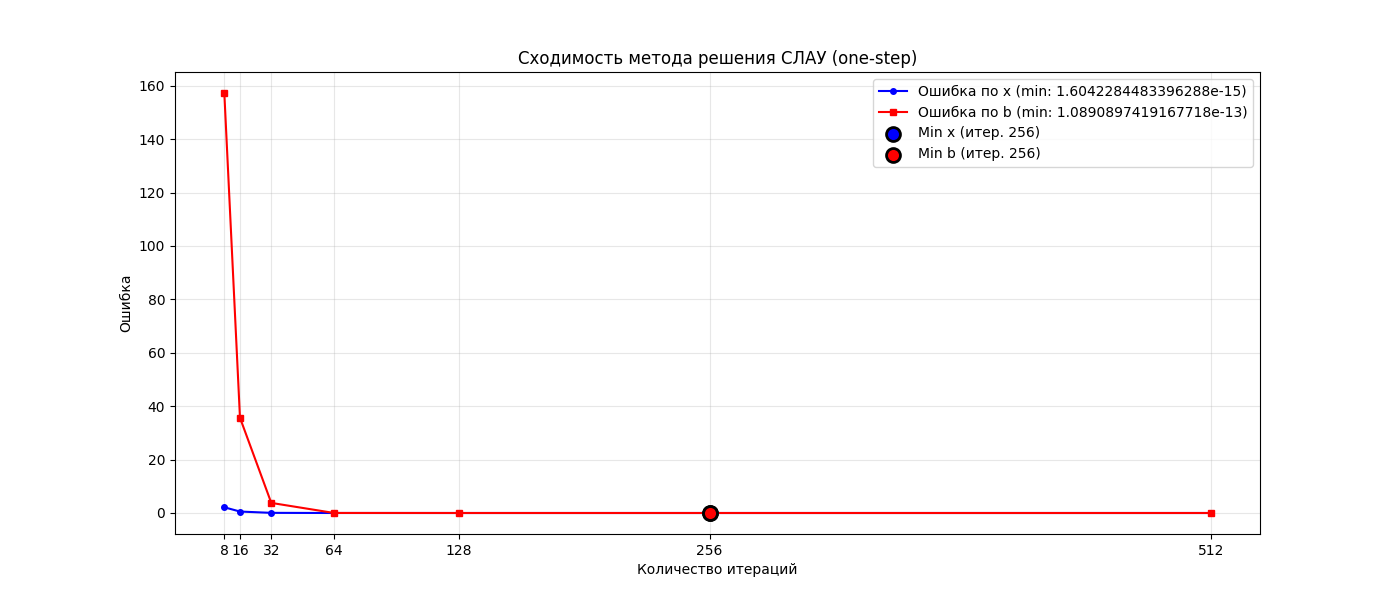
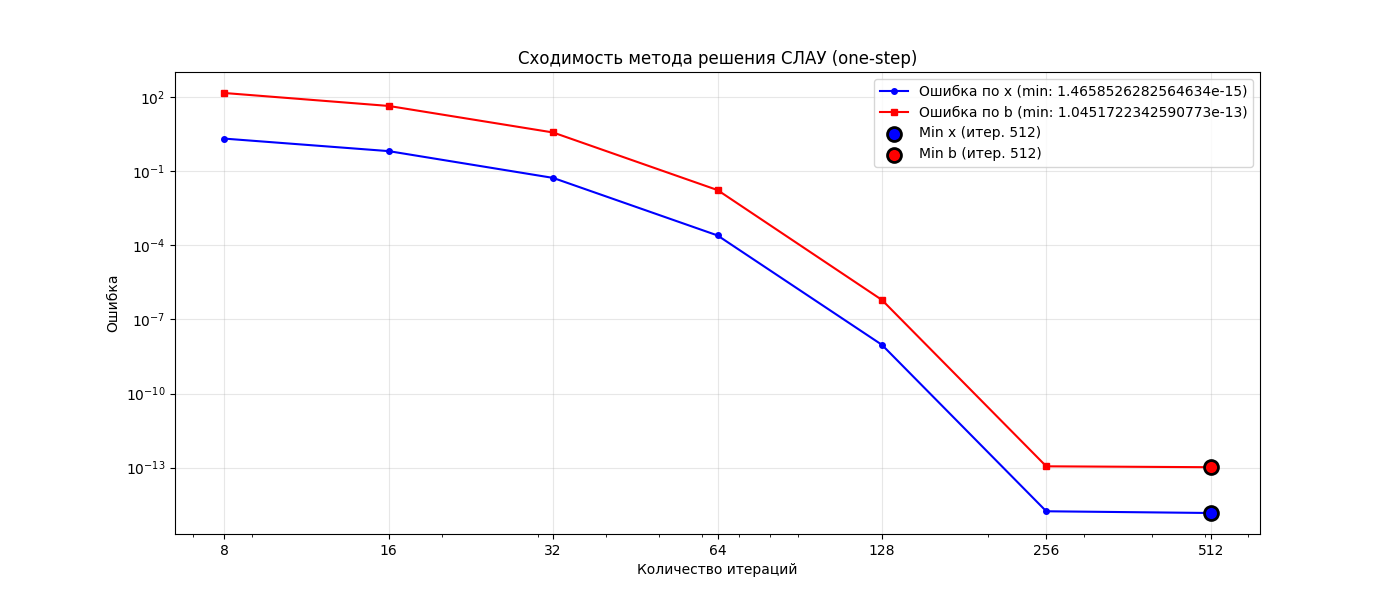
clang-formated

diff --git a/analyze.py b/analyze.py
@@ -29,9 +29,9 @@ def plot_errors_with_min(iterations, errors_x, errors_b, label):
     min_x_iter = iterations[errors_x.index(min_x)]
     min_b_iter = iterations[errors_b.index(min_b)]
 
-    plt.plot(iterations, errors_x, label=f'Ошибка по x (min: {min_x})', 
+    plt.loglog(iterations, errors_x, label=f'Ошибка по x (min: {min_x})', 
              marker='o', markersize=4, color='blue')
-    plt.plot(iterations, errors_b, label=f'Ошибка по b (min: {min_b})', 
+    plt.loglog(iterations, errors_b, label=f'Ошибка по b (min: {min_b})', 
              marker='s', markersize=4, color='red')
 
     plt.scatter(min_x_iter, min_x, color='blue', s=100, zorder=5, 
